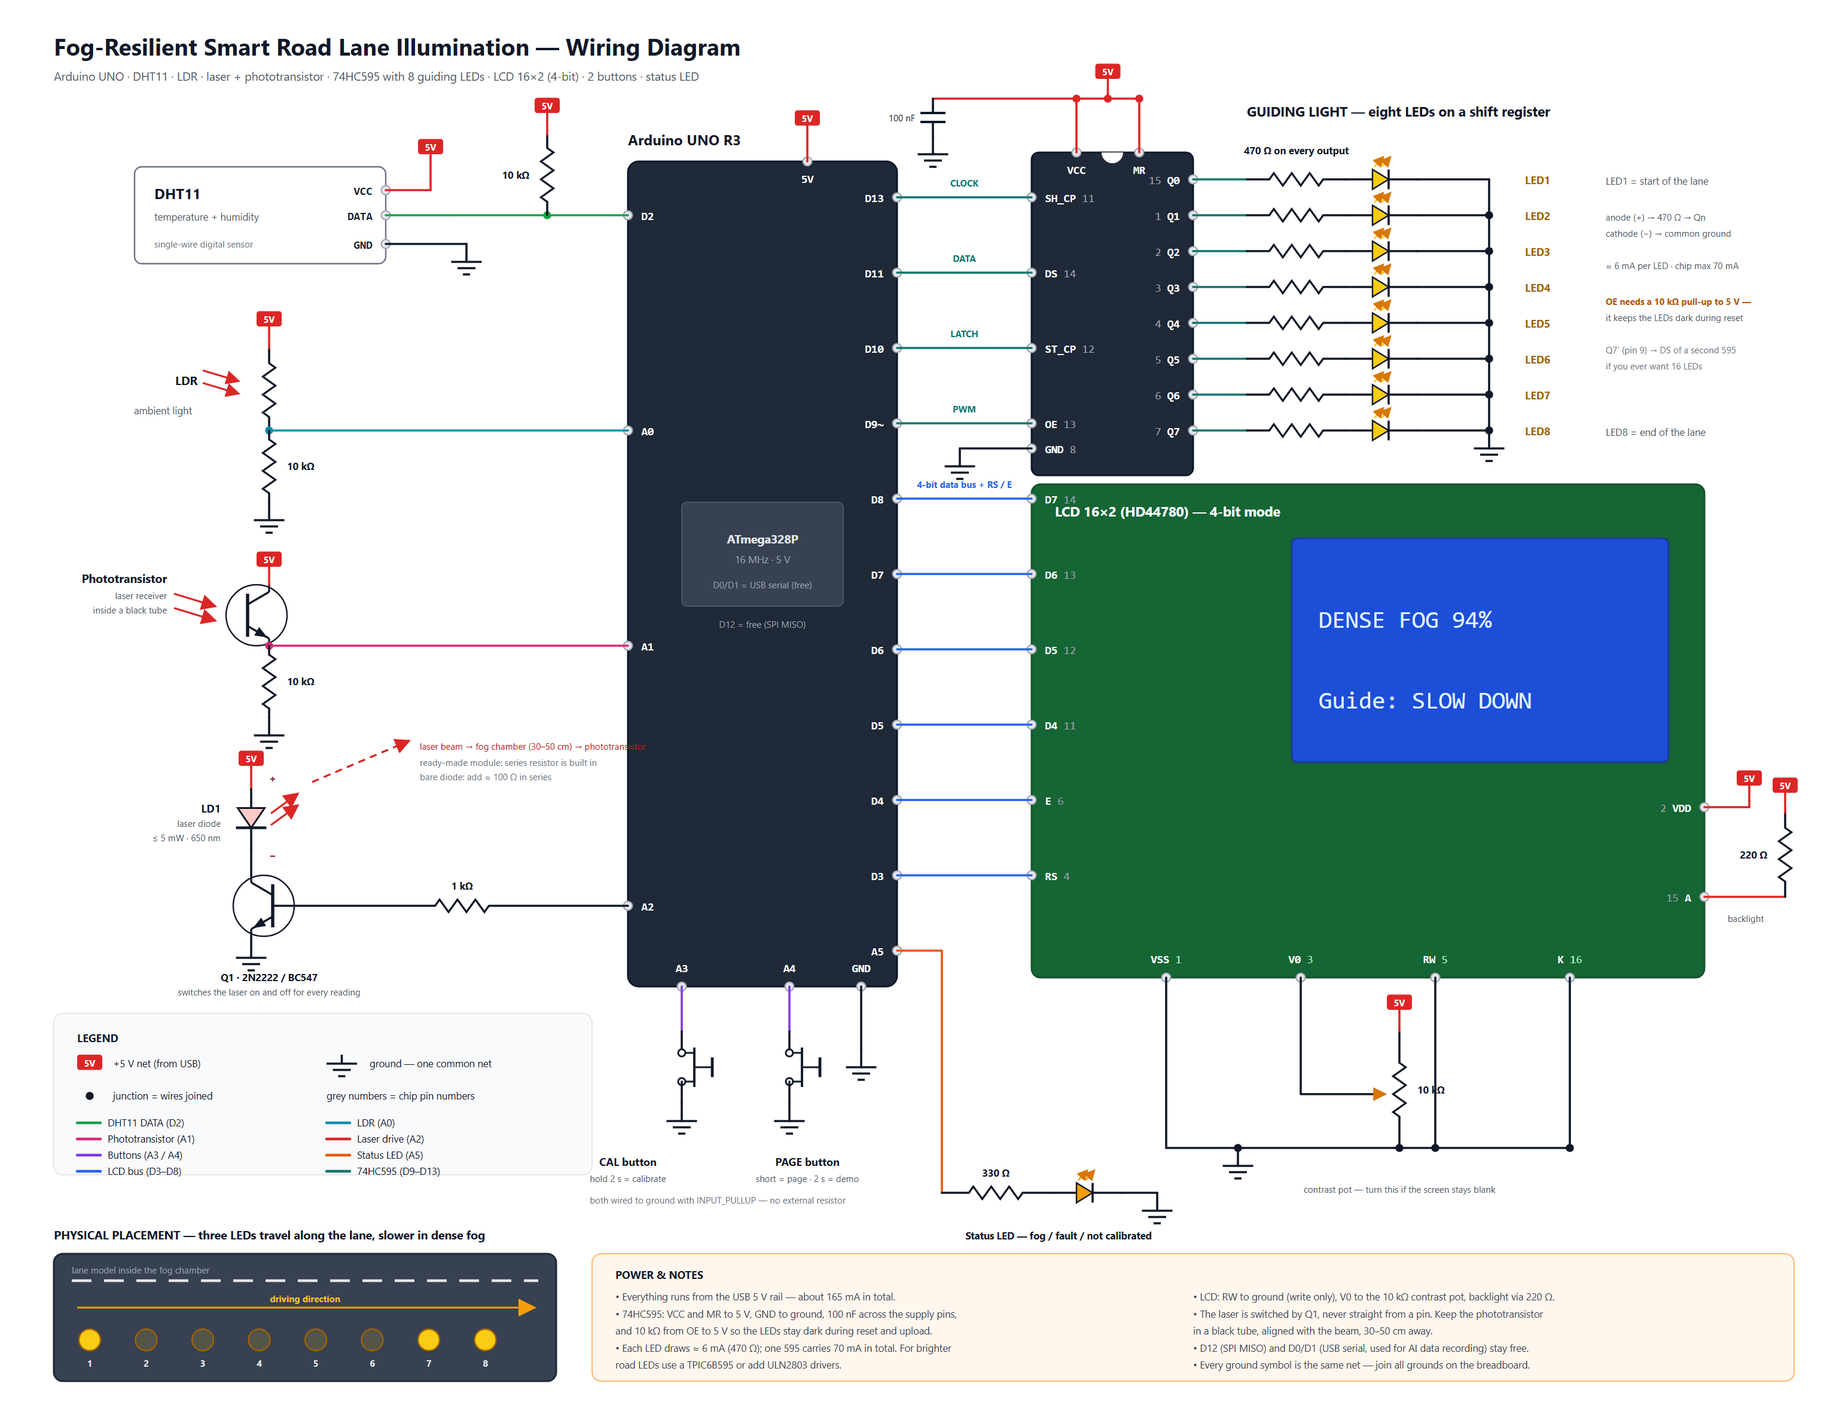
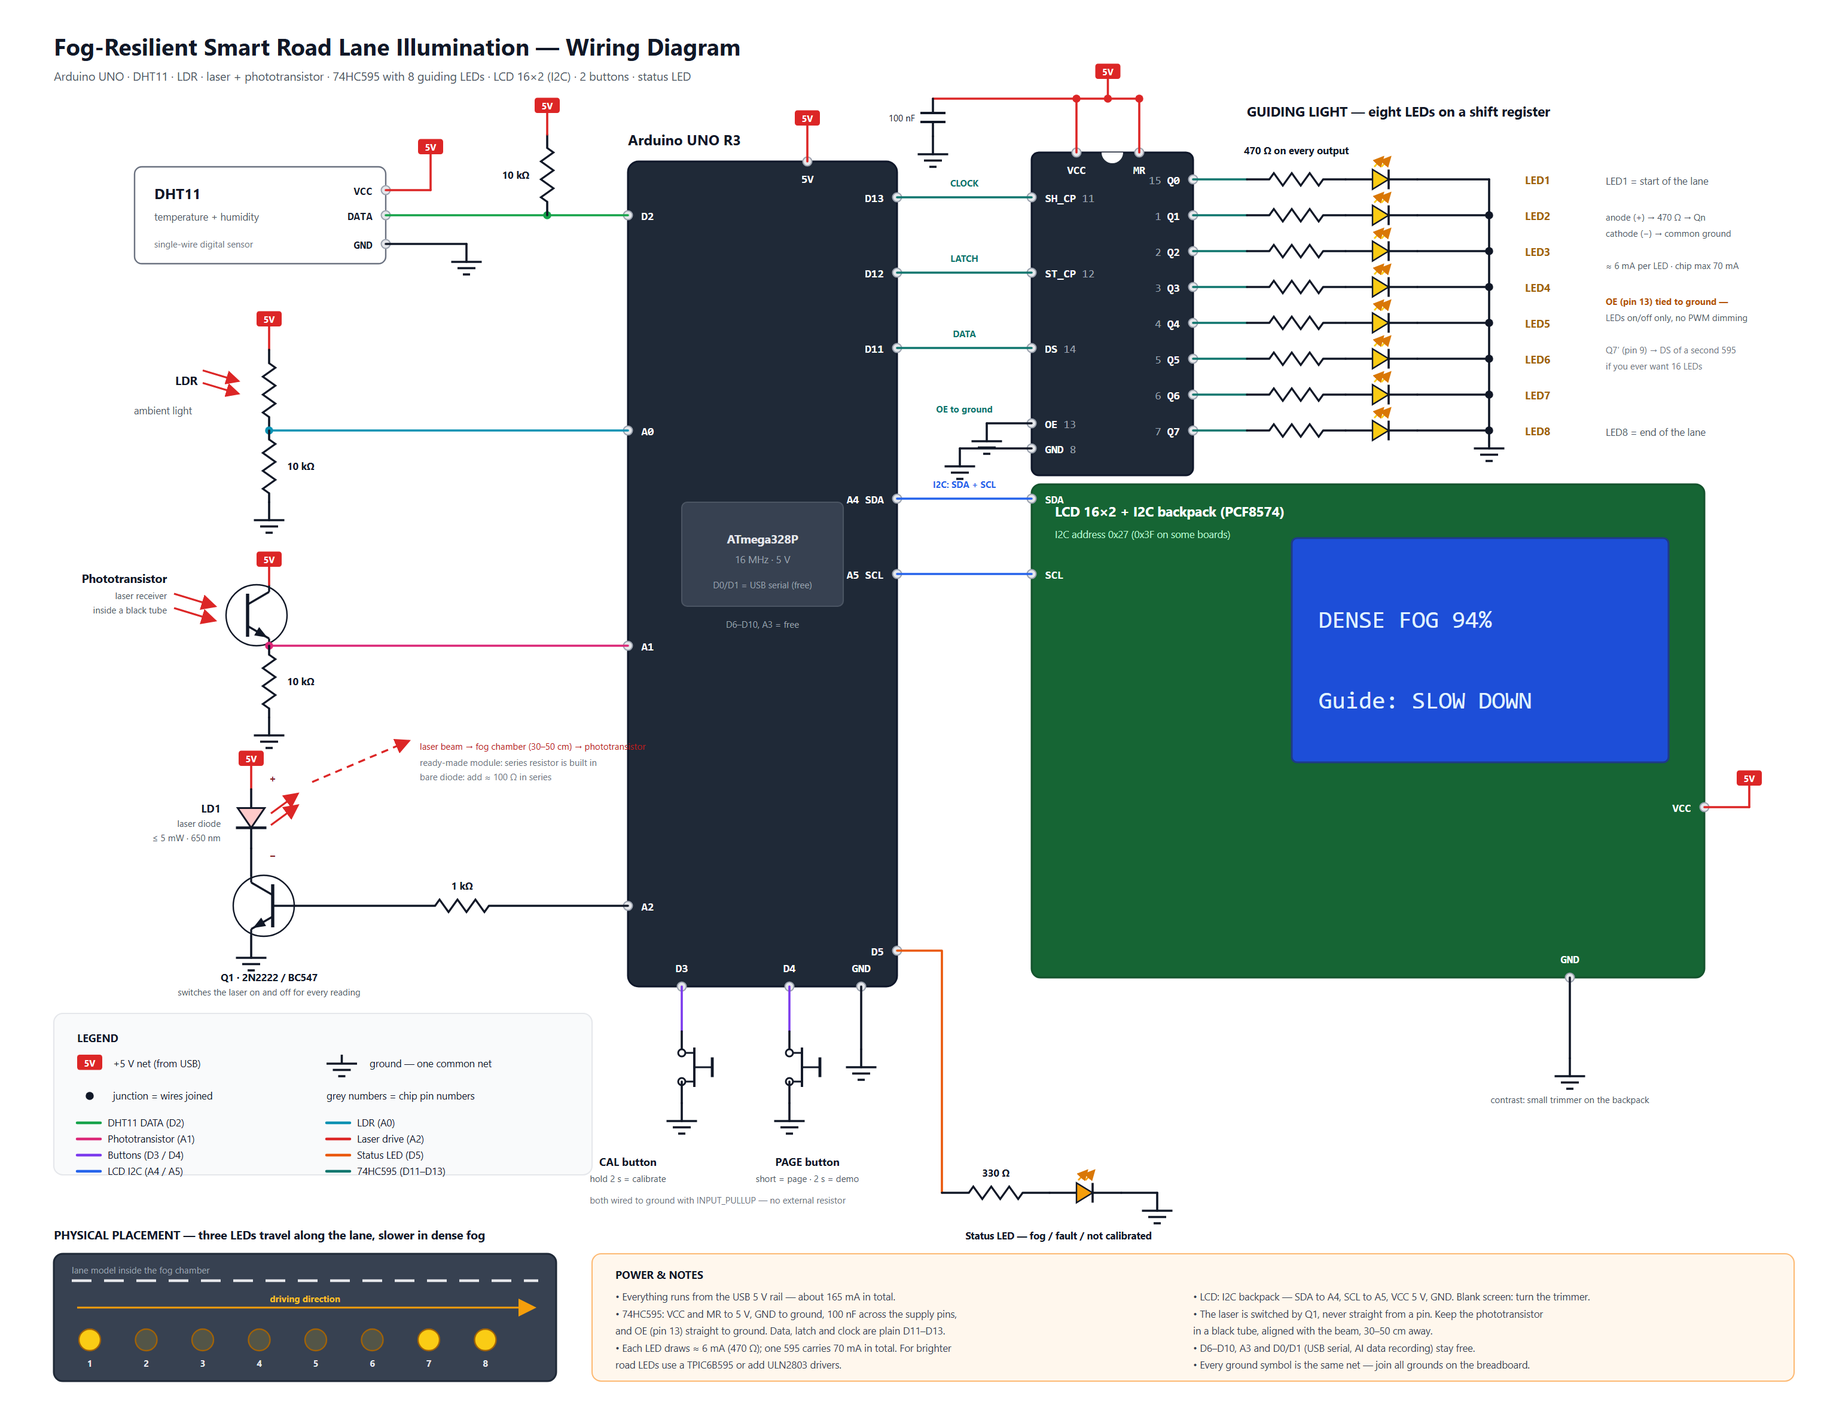
LCD to I2C, 595 on D11-D13 without OE/PWM, buttons and LED moved (#2)
LCD uses an I2C backpack (SDA A4, SCL A5). 74HC595 clock/latch/data on D13/D12/D11
via shiftOut, OE tied to GND (on/off only). CAL=D3, PAGE=D4, status LED=D5.
Wiring diagram, README and CLAUDE.md updated.

diff --git a/docs/gen_wiring.py b/docs/gen_wiring.py
@@ -248,7 +248,7 @@ s.append('<defs>'
          '</defs>')
 s.append(f'<rect width="{W}" height="{H}" fill="#ffffff"/>')
 t(60, 62, "Fog-Resilient Smart Road Lane Illumination — Wiring Diagram", 26, "start", True)
-t(60, 90, "Arduino UNO · DHT11 · LDR · laser + phototransistor · 74HC595 with 8 guiding LEDs · LCD 16×2 (4-bit) · 2 buttons · status LED",
+t(60, 90, "Arduino UNO · DHT11 · LDR · laser + phototransistor · 74HC595 with 8 guiding LEDs · LCD 16×2 (I2C) · 2 buttons · status LED",
   13, "start", False, SUB)
 
 # ================================================================ Uno symbol
@@ -259,22 +259,22 @@ box(BX0 + 60, 560, 180, 116, "#374151", "#4b5563", 6, 1.4)
 t((BX0 + BX1) / 2, 606, "ATmega328P", 13, "middle", True, "#e5e7eb")
 t((BX0 + BX1) / 2, 628, "16 MHz · 5 V", 11, "middle", False, "#9ca3af")
 t((BX0 + BX1) / 2, 656, "D0/D1 = USB serial (free)", 10, "middle", False, "#9ca3af")
-t((BX0 + BX1) / 2, 700, "D12 = free (SPI MISO)", 10, "middle", False, "#9ca3af")
+t((BX0 + BX1) / 2, 700, "D6–D10, A3 = free", 10, "middle", False, "#9ca3af")
 
 P_D2, P_A0, P_A1, P_A2 = (BX0, 240), (BX0, 480), (BX0, 720), (BX0, 1010)
 for p, name in ((P_D2, "D2"), (P_A0, "A0"), (P_A1, "A1"), (P_A2, "A2")):
     sym_pin(p, name, "left")
-P_D13, P_D11, P_D10, P_D9 = [(BX1, y) for y in (220, 304, 388, 472)]
-P_D8, P_D7, P_D6, P_D5, P_D4, P_D3 = [(BX1, y) for y in (556, 640, 724, 808, 892, 976)]
-P_A5 = (BX1, 1060)
-for p, name in ((P_D13, "D13"), (P_D11, "D11"), (P_D10, "D10"), (P_D9, "D9~"), (P_D8, "D8"), (P_D7, "D7"),
-                (P_D6, "D6"), (P_D5, "D5"), (P_D4, "D4"), (P_D3, "D3"), (P_A5, "A5")):
+P_D13, P_D12, P_D11 = [(BX1, y) for y in (220, 304, 388)]
+P_A4, P_A5 = (BX1, 556), (BX1, 640)   # I2C: SDA = A4, SCL = A5
+P_D5 = (BX1, 1060)                     # status LED = D5
+for p, name in ((P_D13, "D13"), (P_D12, "D12"), (P_D11, "D11"), (P_A4, "A4 SDA"), (P_A5, "A5 SCL"),
+                (P_D5, "D5")):
     sym_pin(p, name, "right")
 P_5V = (900, BY0)
 sym_pin(P_5V, "5V", "top")
 v5_at(P_5V, 40)
-P_A3, P_A4, P_GNDB = (760, BY1), (880, BY1), (960, BY1)
-for p, name in ((P_A3, "A3"), (P_A4, "A4"), (P_GNDB, "GND")):
+P_CAL, P_PAGE, P_GNDB = (760, BY1), (880, BY1), (960, BY1)
+for p, name in ((P_CAL, "D3"), (P_PAGE, "D4"), (P_GNDB, "GND")):
     sym_pin(p, name, "bottom")
 
 # ================================================================ DHT11 → D2
@@ -335,7 +335,7 @@ t(468, 854, "ready-made module: series resistor is built in", 10, "start", False
 t(468, 870, "bare diode: add ≈ 100 Ω in series", 10, "start", False, GREY)
 
 # ================================================================ Buttons + board ground
-for p in (P_A3, P_A4):
+for p in (P_CAL, P_PAGE):
     wire([p, (p[0], 1150)], C_BTN)
     switch_between((p[0], 1150), (p[0], 1230))
     gnd_at((p[0], 1230))
@@ -347,8 +347,8 @@ t(800, 1342, "both wired to ground with INPUT_PULLUP — no external resistor", 
 wire([P_GNDB, (960, 1170)])
 gnd_at((960, 1170))
 
-# ================================================================ Status LED → A5
-wire([P_A5, (1050, 1060), (1050, 1330)], C_STAT)
+# ================================================================ Status LED → D5
+wire([P_D5, (1050, 1060), (1050, 1330)], C_STAT)
 res_between((1050, 1330), (1170, 1330), "330 Ω")
 led_between((1170, 1330), (1250, 1330), "#f59e0b")
 wire([(1250, 1330), (1290, 1330)])
@@ -363,12 +363,16 @@ s.append(f'<path d="M{(CX0 + CX1) / 2 - 12},{CY0} a12,12 0 0,0 24,0" fill="#ffff
 t((CX0 + CX1) / 2, CY1 + 28, "U1 · 74HC595", 13, "middle", True)
 t((CX0 + CX1) / 2, CY1 + 46, "grey numbers = chip pins", 10, "middle", False, GREY)
 
-for p_mcu, cy, name, num, netlabel in ((P_D13, 220, "SH_CP", "11", "CLOCK"), (P_D11, 304, "DS", "14", "DATA"),
-                                       (P_D10, 388, "ST_CP", "12", "LATCH"), (P_D9, 472, "OE", "13", "PWM")):
+for p_mcu, cy, name, num, netlabel in ((P_D13, 220, "SH_CP", "11", "CLOCK"), (P_D12, 304, "ST_CP", "12", "LATCH"),
+                                       (P_D11, 388, "DS", "14", "DATA")):
     sym_pin((CX0, cy), name, "left", num=num)
     wire([p_mcu, (CX0, cy)], C_595)
     t((BX1 + CX0) / 2, cy - 12, netlabel, 10, "middle", True, C_595)
 
+sym_pin((CX0, 472), "OE", "left", num="13")
+wire([(CX0, 472), (1100, 472)])
+gnd_at((1100, 472))
+t((BX1 + CX0) / 2, 460, "OE to ground", 10, "middle", True, C_595)
 sym_pin((1200, CY0), "VCC", "top")
 sym_pin((1270, CY0), "MR", "top")
 wire([(1200, CY0), (1200, 110)], C_5V)
@@ -403,54 +407,35 @@ t(1790, 206, "LED1 = start of the lane", 11, "start", False, SUB)
 t(1790, 246, "anode (+) → 470 Ω → Qn", 10, "start", False, SUB)
 t(1790, 264, "cathode (−) → common ground", 10, "start", False, SUB)
 t(1790, 300, "≈ 6 mA per LED · chip max 70 mA", 10, "start", False, SUB)
-t(1790, 340, "OE needs a 10 kΩ pull-up to 5 V —", 10, "start", True, "#b45309")
-t(1790, 358, "it keeps the LEDs dark during reset", 10, "start", False, SUB)
+t(1790, 340, "OE (pin 13) tied to ground —", 10, "start", True, "#b45309")
+t(1790, 358, "LEDs on/off only, no PWM dimming", 10, "start", False, SUB)
 t(1790, 394, "Q7′ (pin 9) → DS of a second 595", 10, "start", False, GREY)
 t(1790, 412, "if you ever want 16 LEDs", 10, "start", False, GREY)
 t(1790, 486, "LED8 = end of the lane", 11, "start", False, SUB)
 
-# ================================================================ LCD 16×2
+# ================================================================ LCD 16×2 (I2C backpack)
 LX0, LX1, LY0, LY1 = 1150, 1900, 540, 1090
 box(LX0, LY0, LX1 - LX0, LY1 - LY0, "#166534", "#14532d", 10, 2)
-t(LX0 + 26, LY0 + 36, "LCD 16×2 (HD44780) — 4-bit mode", 15, "start", True, "#ffffff")
+t(LX0 + 26, LY0 + 36, "LCD 16×2 + I2C backpack (PCF8574)", 15, "start", True, "#ffffff")
 box(1440, 600, 420, 250, "#1d4ed8", "#1e3a8a", 6, 2)
 s.append('<text x="1470" y="700" font-size="27" fill="#e0f2fe" font-family="Consolas, monospace">DENSE FOG  94%</text>')
 s.append('<text x="1470" y="790" font-size="27" fill="#e0f2fe" font-family="Consolas, monospace">Guide: SLOW DOWN</text>')
-for p_mcu, name, num in ((P_D8, "D7", "14"), (P_D7, "D6", "13"), (P_D6, "D5", "12"),
-                         (P_D5, "D4", "11"), (P_D4, "E", "6"), (P_D3, "RS", "4")):
-    sym_pin((LX0, p_mcu[1]), name, "left", num=num)
+for p_mcu, name in ((P_A4, "SDA"), (P_A5, "SCL")):
+    sym_pin((LX0, p_mcu[1]), name, "left")
     wire([p_mcu, (LX0, p_mcu[1])], C_LCD)
-t((BX1 + LX0) / 2, 544, "4-bit data bus + RS / E", 10, "middle", True, C_LCD)
+t((BX1 + LX0) / 2, 544, "I2C: SDA + SCL", 10, "middle", True, C_LCD)
+t(LX0 + 26, LY0 + 60, "I2C address 0x27 (0x3F on some boards)", 11, "start", False, "#bbf7d0")
 
-# power pins that need +5 V sit on the right edge, so their flags can point up
-sym_pin((LX1, 900), "VDD", "right", num="2")
+# power pins of the backpack
+sym_pin((LX1, 900), "VCC", "right")
 wire([(LX1, 900), (1950, 900)], C_5V)
 v5_at((1950, 900), 24)
-sym_pin((LX1, 1000), "A", "right", num="15")
-wire([(LX1, 1000), (1990, 1000)], C_5V)
-res_between((1990, 1000), (1990, 906), "220 Ω", "left")
-v5_at((1990, 906), 22)
-t(1946, 1028, "backlight", 10, "middle", False, SUB)
-
-# grounds and contrast sit on the bottom edge, so their symbols hang downwards
-for x, name, num in ((1300, "VSS", "1"), (1450, "V0", "3"), (1600, "RW", "5"), (1750, "K", "16")):
-    s.append(f'<circle cx="{x}" cy="{LY1}" r="5" fill="#e5e7eb" stroke="#9ca3af" stroke-width="1.4"/>')
-    s.append(f'<text x="{x}" y="{LY1 - 16}" font-size="12.5" text-anchor="middle" font-weight="bold" fill="#ffffff" '
-             f'font-family="Consolas, monospace">{name} <tspan fill="#bbf7d0" font-weight="normal">{num}</tspan></text>')
-for x in (1300, 1600, 1750):
-    wire([(x, LY1), (x, 1280)])
-wire([(1300, 1280), (1750, 1280)])
-dot((1600, 1280))
-dot((1750, 1280))
-dot((1380, 1280))
-gnd_at((1380, 1280))
-# contrast potentiometer: +5 V on top, ground at the bottom, wiper to V0
-wire([(1450, LY1), (1450, 1220)])
-s.append(f'<line x1="1450" y1="1220" x2="1544" y2="1220" stroke="{C_BODY}" stroke-width="2.2" marker-end="url(#glow)"/>')
-res_between((1560, 1150), (1560, 1280), "10 kΩ")
-v5_at((1560, 1150), 24)
-dot((1560, 1280))
-t(1560, 1330, "contrast pot — turn this if the screen stays blank", 10, "middle", False, SUB)
+s.append(f'<circle cx="1750" cy="{LY1}" r="5" fill="#e5e7eb" stroke="#9ca3af" stroke-width="1.4"/>')
+s.append(f'<text x="1750" y="{LY1 - 16}" font-size="12.5" text-anchor="middle" font-weight="bold" fill="#ffffff" '
+         f'font-family="Consolas, monospace">GND</text>')
+wire([(1750, LY1), (1750, 1180)])
+gnd_at((1750, 1180))
+t(1750, 1230, "contrast: small trimmer on the backpack", 10, "middle", False, SUB)
 
 # ================================================================ legend
 box(60, 1130, 600, 180, "#f9fafb", "#e5e7eb", 10, 1.4)
@@ -466,7 +451,7 @@ dot((100, 1222))
 t(126, 1226, "junction = wires joined", 11, "start")
 t(364, 1226, "grey numbers = chip pin numbers", 11, "start")
 nets = [("DHT11 DATA (D2)", C_DHT), ("LDR (A0)", C_LDR), ("Phototransistor (A1)", C_RX), ("Laser drive (A2)", C_LASER),
-        ("Buttons (A3 / A4)", C_BTN), ("Status LED (A5)", C_STAT), ("LCD bus (D3–D8)", C_LCD), ("74HC595 (D9–D13)", C_595)]
+        ("Buttons (D3 / D4)", C_BTN), ("Status LED (D5)", C_STAT), ("LCD I2C (A4 / A5)", C_LCD), ("74HC595 (D11–D13)", C_595)]
 for i, (name, col) in enumerate(nets):
     x = 86 + (i % 2) * 278
     y = 1252 + (i // 2) * 18
@@ -493,15 +478,15 @@ t(686, 1426, "POWER &amp; NOTES", 12, "start", True)
 left_notes = [
     "• Everything runs from the USB 5 V rail — about 165 mA in total.",
     "• 74HC595: VCC and MR to 5 V, GND to ground, 100 nF across the supply pins,",
-    "   and 10 kΩ from OE to 5 V so the LEDs stay dark during reset and upload.",
+    "   and OE (pin 13) straight to ground. Data, latch and clock are plain D11–D13.",
     "• Each LED draws ≈ 6 mA (470 Ω); one 595 carries 70 mA in total. For brighter",
     "   road LEDs use a TPIC6B595 or add ULN2803 drivers.",
 ]
 right_notes = [
-    "• LCD: RW to ground (write only), V0 to the 10 kΩ contrast pot, backlight via 220 Ω.",
+    "• LCD: I2C backpack — SDA to A4, SCL to A5, VCC 5 V, GND. Blank screen: turn the trimmer.",
     "• The laser is switched by Q1, never straight from a pin. Keep the phototransistor",
     "   in a black tube, aligned with the beam, 30–50 cm away.",
-    "• D12 (SPI MISO) and D0/D1 (USB serial, used for AI data recording) stay free.",
+    "• D6–D10, A3 and D0/D1 (USB serial, AI data recording) stay free.",
     "• Every ground symbol is the same net — join all grounds on the breadboard.",
 ]
 for i, line in enumerate(left_notes):

diff --git a/firmware/fog_illumination_uno/config.h b/firmware/fog_illumination_uno/config.h
@@ -8,25 +8,20 @@
 // D0/D1 are the USB serial port: leave them free (used for AI data recording).
 #define PIN_DHT        2    // DHT11 data (10k pull-up to 5V if using a bare sensor)
 
-#define PIN_LCD_RS     3    // LCD 16x2 (HD44780) in 4-bit mode, RW tied to GND
-#define PIN_LCD_E      4
-#define PIN_LCD_D4     5
-#define PIN_LCD_D5     6
-#define PIN_LCD_D6     7
-#define PIN_LCD_D7     8
+// LCD 16x2 on an I2C backpack (PCF8574): SDA = A4, SCL = A5 (fixed hardware pins on the Uno).
+#define LCD_I2C_ADDR   0x27 // try 0x3F if the screen stays blank
 
-#define PIN_595_OE     9    // 74HC595 pin 13 (OE, active LOW) — PWM = LED brightness
-#define PIN_595_LATCH  10   // 74HC595 pin 12 (ST_CP)
-// 74HC595 pin 14 (DS)    -> D11 (hardware SPI MOSI)
-// 74HC595 pin 11 (SH_CP) -> D13 (hardware SPI SCK)
-// D12 (SPI MISO) stays unused.
+// 74HC595 (bit-banged with shiftOut, OE pin 13 tied to GND = LEDs always enabled, no brightness PWM)
+#define PIN_595_CLOCK  13   // 74HC595 pin 11 (SH_CP)
+#define PIN_595_LATCH  12   // 74HC595 pin 12 (ST_CP)
+#define PIN_595_DATA   11   // 74HC595 pin 14 (DS)
 
 #define PIN_LDR        A0   // LDR from 5V to A0, 10k from A0 to GND  (brighter = higher)
 #define PIN_RX         A1   // Phototransistor: collector 5V, emitter A1, 10k to GND
 #define PIN_LASER      A2   // Laser module through NPN transistor (HIGH = laser on)
-#define PIN_BTN_CAL    A3   // Push button to GND (internal pull-up). Hold 2 s = calibrate
-#define PIN_BTN_PAGE   A4   // Push button to GND. Short = next LCD page, hold 2 s = demo mode
-#define PIN_STATUS     A5   // Status / fault LED (+330 ohm)
+#define PIN_BTN_CAL    3    // Push button to GND (internal pull-up). Hold 2 s = calibrate
+#define PIN_BTN_PAGE   4    // Push button to GND. Short = next LCD page, hold 2 s = demo mode
+#define PIN_STATUS     5    // Status / fault LED (+330 ohm)
 
 // ---------------- Guiding lights (74HC595) ---------------------------------
 #define NUM_SHIFT_REGS   1  // 1 chip = 8 LEDs, 2 chained chips = 16 LEDs

diff --git a/README.id.md b/README.id.md
@@ -28,17 +28,18 @@ DENSE FOG** dengan **edge AI** (softmax logistic regression), lalu menjalankan p
 | Pin | Ke | Pin | Ke |
 |---|---|---|---|
 | D2 | DHT11 DATA | A0 | LDR (pembagi 10 kΩ) |
-| D3–D8 | LCD RS, E, D4, D5, D6, D7 | A1 | Phototransistor (emitter + 10 kΩ ke GND) |
-| D9 | 595 OE (pin 13) — PWM kecerahan | A2 | Laser lewat NPN 2N2222 |
-| D10 | 595 ST_CP (pin 12) | A3 | Tombol CAL → GND |
-| D11 | 595 DS (pin 14) | A4 | Tombol PAGE → GND |
-| D13 | 595 SH_CP (pin 11) | A5 | Status LED + 330 Ω |
+| D3 | Tombol CAL → GND | A1 | Phototransistor (emitter + 10 kΩ ke GND) |
+| D4 | Tombol PAGE → GND | A2 | Laser lewat NPN 2N2222 |
+| D5 | Status LED + 330 Ω | A4 | LCD I2C SDA |
+| D11 | 595 DS (pin 14) | A5 | LCD I2C SCL |
+| D12 | 595 ST_CP (pin 12) | | |
+| D13 | 595 SH_CP (pin 11) | | |
 
 Catatan:
-- 595: VCC(16) & MR(10) ke 5V, GND(8) ke GND, kapasitor 0,1 µF dekat VCC, resistor **10 kΩ dari OE ke 5V**
-  (supaya LED mati saat Arduino baru menyala). LED1…LED8 di Q0…Q7, tiap LED **470 Ω – 1 kΩ** ke GND.
-- LCD: RW(5) ke GND, V0(3) ke kaki tengah potensiometer 10 kΩ, backlight A(15) lewat 220 Ω ke 5V.
-  **Layar kosong / kotak hitam = putar potensiometer kontras.**
+- 595: VCC(16) & MR(10) ke 5V, GND(8) ke GND, kapasitor 0,1 µF dekat VCC, **OE (pin 13) langsung ke GND**
+  (tanpa PWM: LED hanya menyala penuh atau mati, kecerahan tidak diatur). LED1…LED8 di Q0…Q7, tiap LED **470 Ω – 1 kΩ** ke GND.
+- LCD I2C (backpack PCF8574): VCC ke 5V, GND, SDA ke A4, SCL ke A5. Alamat default `0x27` (`LCD_I2C_ADDR` di `config.h`; ganti ke `0x3F` bila layar kosong).
+  **Layar kosong / kotak hitam = putar trimmer kontras di backpack.**
 - Laser 2 kabel: + ke 5V, − ke collector 2N2222, emitter ke GND, basis lewat 1 kΩ ke A2.
   Modul KY-008 (3 pin): pin S tetap lewat transistor, jangan langsung dari pin Arduino bila arusnya > 20 mA.
 - Phototransistor dimasukkan ke **tabung hitam** (sedotan hitam / selongsong) dan diarahkan tepat ke laser,
@@ -47,7 +48,7 @@ Catatan:
 ## 2. Upload firmware
 1. Buka `firmware/fog_illumination_uno/fog_illumination_uno.ino` di Arduino IDE.
 2. Board: **Arduino Uno**, pilih port COM-nya, klik Upload.
-   Tidak perlu install library (SPI, EEPROM, LiquidCrystal sudah bawaan; DHT11 dibaca dengan kode sendiri).
+   Install library **LiquidCrystal I2C** (Library Manager); SPI, EEPROM, Wire bawaan; DHT11 dibaca dengan kode sendiri.
 3. Saat menyala: LCD menampilkan versi, 8 LED menyala bergantian satu kali (lamp test).
 
 ## 3. Kalibrasi laser (wajib sekali, tersimpan di EEPROM)
@@ -179,11 +180,11 @@ tombol "Next LCD page" tidak berpengaruh di simulator (tidak ada LCD).
 ## Troubleshooting
 | Gejala | Penyebab / solusi |
 |---|---|
-| LCD kotak hitam / kosong | Putar potensiometer kontras; cek RW ke GND |
+| LCD kotak hitam / kosong | Putar trimmer kontras di backpack I2C; cek alamat (0x27 atau 0x3F) dan SDA/SCL |
 | `!! SENSOR FAULT DHT11` | Kabel data DHT11 ke D2, pull-up 10 kΩ (sensor tanpa modul). Muncul hanya bila belum terkalibrasi; bila sudah terkalibrasi, DHT11 gagal hanya membuat LED status berkedip cepat |
 | `!! SENSOR FAULT LASER` | Laser terhalang/bergeser → luruskan, kalibrasi ulang |
 | `NOT CALIBRATED` bergantian di LCD | Belum kalibrasi → tahan CAL 2 s di udara bersih. Selama itu lampu menyala minimal LIGHT FOG |
-| LED tidak menyala sama sekali | Cek OE (D9), MR ke 5V, latch D10; coba demo mode |
+| LED tidak menyala sama sekali | Cek OE (pin 13) ke GND, MR ke 5V, latch D12; coba demo mode |
 | Recorder: "port is busy" | Tutup Serial Monitor / Serial Plotter Arduino IDE |
 | Dashboard: "Cannot open COMx ... port is busy" | Tutup Serial Monitor, `RECORD_DATA.bat`, atau dashboard lain yang memakai port itu |
 | Dashboard: tidak ada port COM / "driver missing" | Settings → USB-serial driver (bagian 7): Scan for hardware changes, atau pasang driver CH340/CP210x/FTDI dari situs vendor |

diff --git a/CLAUDE.md b/CLAUDE.md
@@ -81,6 +81,7 @@ Semua pekerjaan di proyek ini, dari sesi mana pun, wajib:
 - Protokol tambahan (firmware): `!get`, `!set key=nilai`, `!reset` (pengaturan di EEPROM alamat 16, `Cfg`), baris status `S,mode,bright,calibrated,dhtFails,rxSat`,
   baris `C,...`. Kolom `D,` tidak diubah (recorder dan `train_model.py` bergantung padanya). Batas nilai: `CFG_LIMITS` di simulator = `setCfg()` di firmware.
 - Rekaman simulator disimpan sebagai `data/sim_*.csv` agar tidak ikut training (`train_*.csv`).
+- **LCD I2C (2026-10-20):** LCD kini lewat backpack I2C (SDA=A4, SCL=A5, `LCD_I2C_ADDR` 0x27, library `LiquidCrystal I2C`); **Revisi 2026-10-20:** 74HC595 tanpa pin OE/PWM (OE ke GND; kecerahan tidak lagi diterapkan ke LED, nilai `bright` tetap dilaporkan di telemetri), SH_CP/ST_CP/DS = D13/D12/D11 lewat `shiftOut` (bukan SPI), tombol CAL=D3, PAGE=D4, status LED=D5 (A3 bebas). Dikompilasi OK (19492 B / 60 %, RAM 1452 B / 70 %). Cadangan `backups/pre_nopwm/`. Cadangan di `backups/pre_i2c/`.
 - Firmware belum bisa dikompilasi di PC ini (tidak ada arduino-cli/g++); verifikasi dengan Arduino IDE. Simulator diuji, perilaku di Uno belum.
 - **Driver USB-serial** (`dashboard/drivers.py`, kartu di Settings, `GET /api/drivers`, `POST /api/drivers/rescan|install`): deteksi lewat `Win32_PnPEntity`
   (VID 1A86 CH340, 10C4 CP210x, 0403 FTDI, 2341/2A03 Arduino; kode 28 = driver belum ada). `pnputil /scan-devices` dan instalasi butuh admin: selalu lewat UAC dan
